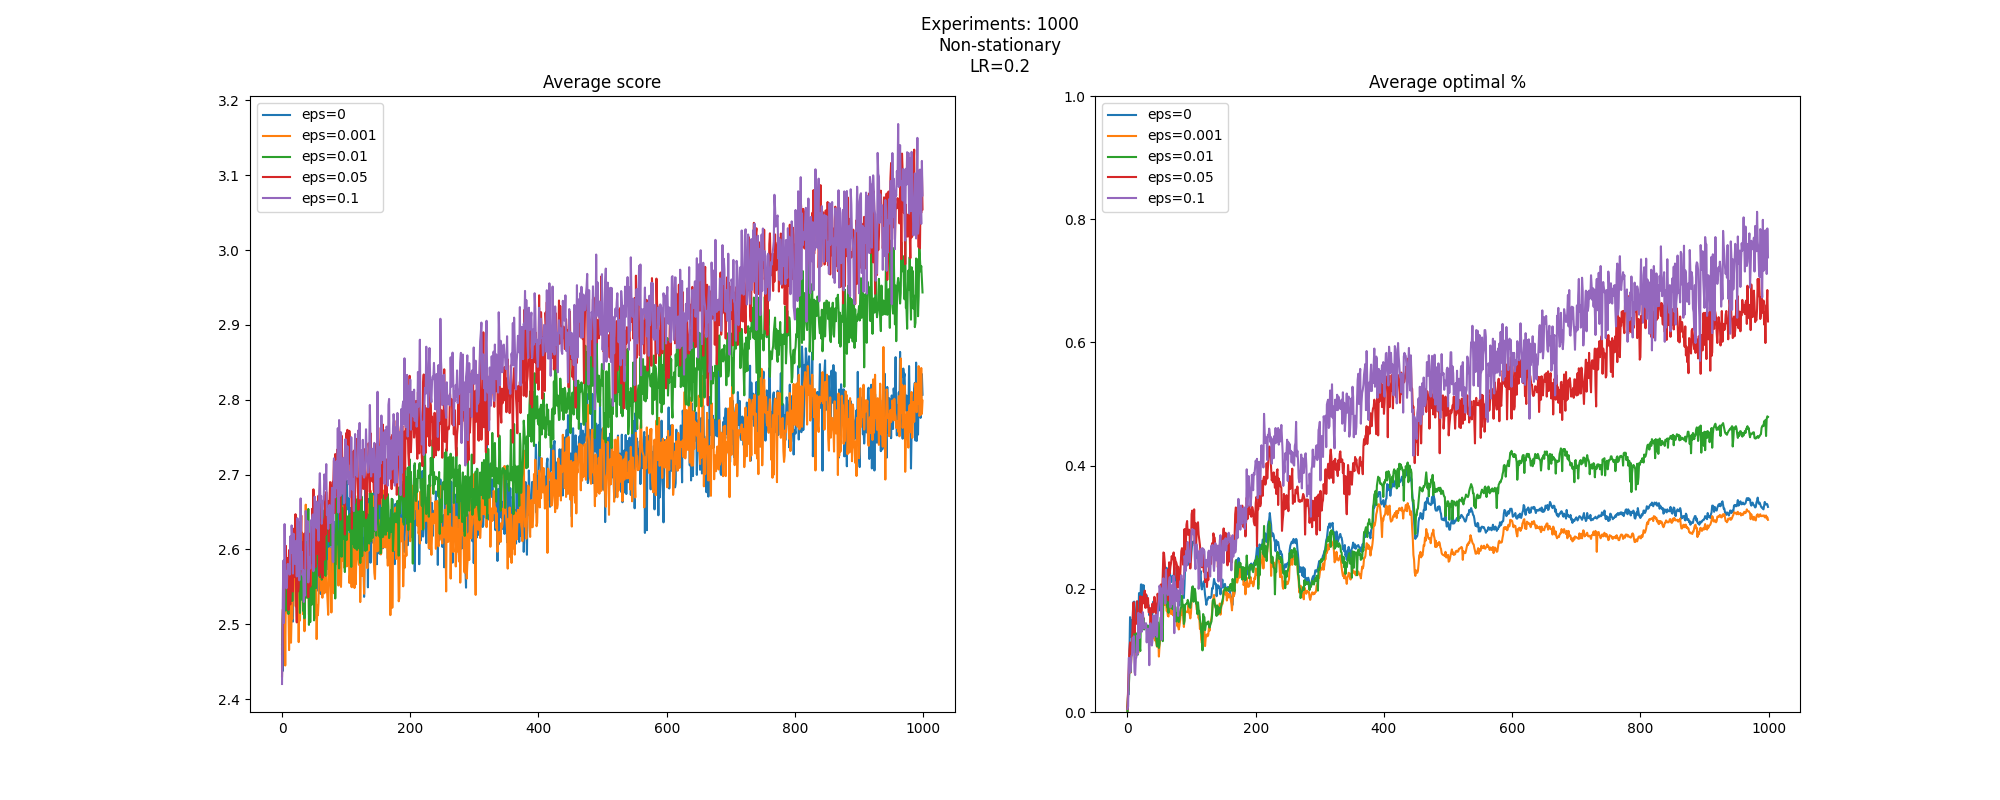
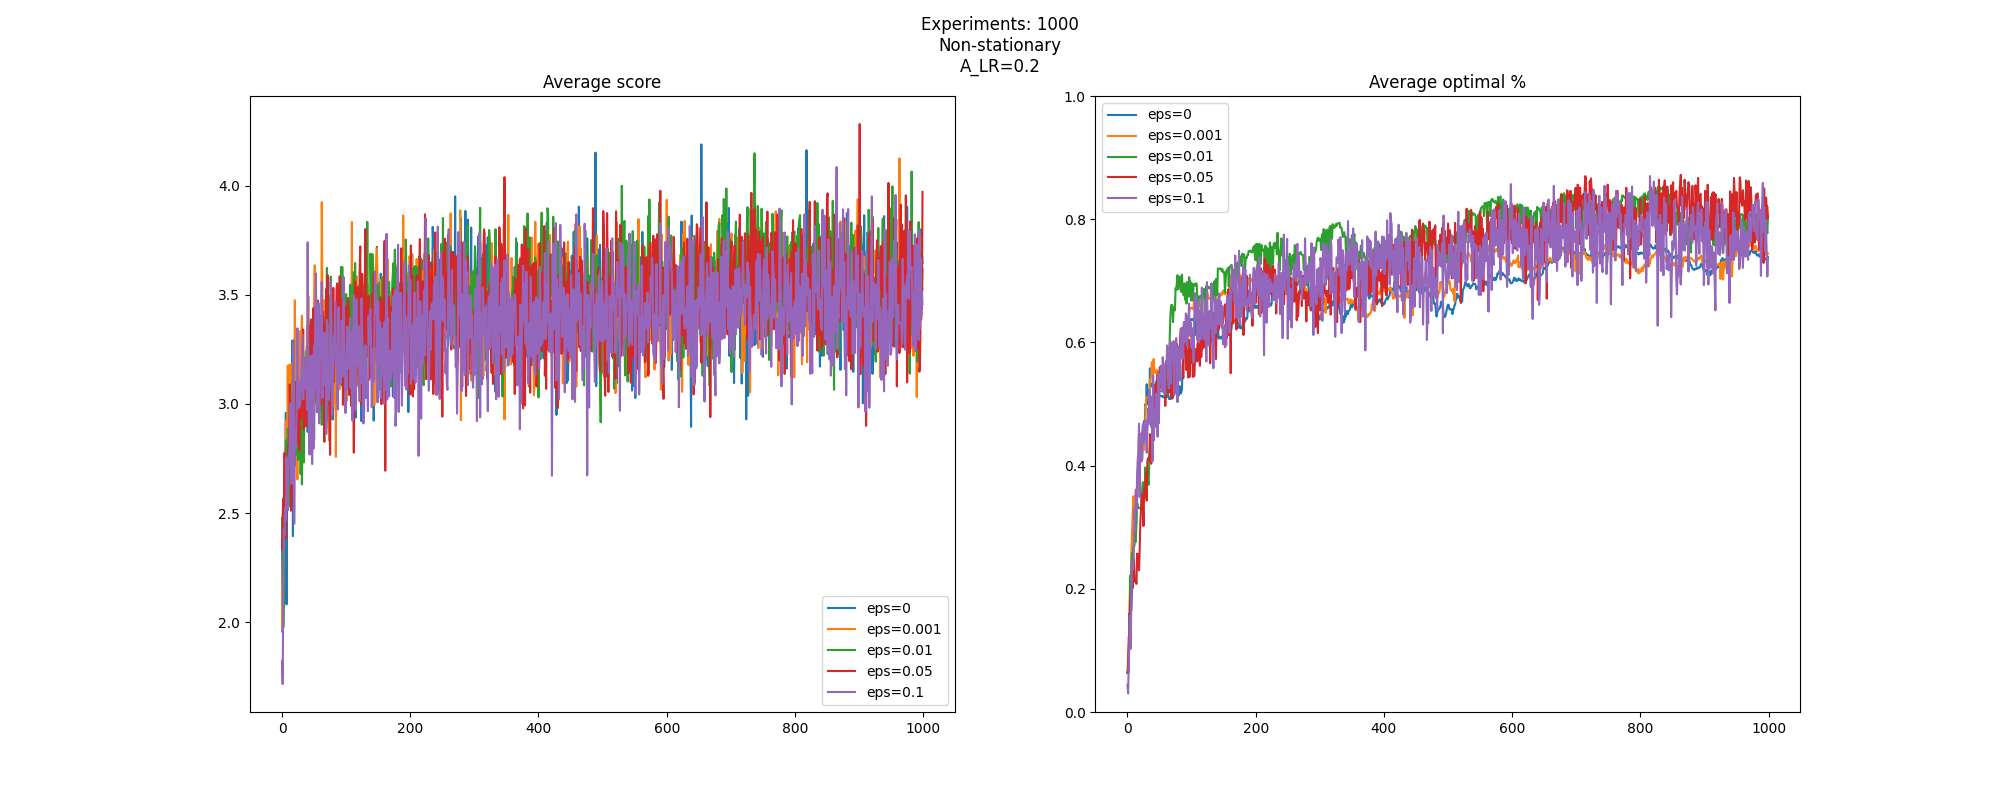
work on ucb agent

diff --git a/Bandits/agents.py b/Bandits/agents.py
@@ -1,6 +1,7 @@
 import numpy as np
 import random
 from typing import Union, Callable
+from math import log, sqrt
 
 
 class AgentBase:
@@ -11,33 +12,7 @@ class AgentBase:
     def update(self, reward, action):
         raise NotImplementedError()
 
-
-class EpsilonAgent:
-    '''
-    Agent that keeps a Q function, which it updates with
-        Q_{n+1} = Q_n + lr(n)(R_n - Q_n)
-
-    The user controls the learning rate lr(n)
-
-    '''
-    def __init__(self, 
-            num_bandits: int, 
-            epsilon: float, 
-            lr: Union[float, Callable[[int], float]] =None
-        ):
-        '''
-        Constructor.
-
-        The learning rate is either a callable that receives n as input, or
-        simply a floating point number for a constant learning rate.
-        '''
-
-        self.num_bandits = num_bandits
-        self.qs = np.zeros(num_bandits) + 2
-        self.ns = np.zeros(num_bandits)
-        self.epsilon = epsilon
-
-        # default is a mean agent
+    def _init_lr(self, lr):
         if lr is None:
             self.lr = lambda n: 1/n
 
@@ -48,6 +23,39 @@ class EpsilonAgent:
             self.lr = lambda n: lr
         else:
             self.lr = lr
+
+
+
+
+class EpsilonAgent(AgentBase):
+    '''
+    Agent that keeps a Q function, which it updates with
+        Q_{n+1} = Q_n + lr(n)(R_n - Q_n)
+
+    The user controls the learning rate lr(n)
+
+    This agent uses epsilon greedy
+    '''
+    def __init__(self, 
+            num_bandits: int, 
+            epsilon: float, 
+            initial_q: float,
+            lr: Union[float, Callable[[int], float]] =None
+        ):
+        '''
+        Constructor.
+
+        The learning rate is either a callable that receives n as input, or
+        simply a floating point number for a constant learning rate.
+        '''
+        super().__init__()
+        self.num_bandits = num_bandits
+        self.qs = np.zeros(num_bandits) + initial_q
+        self.ns = np.zeros(num_bandits)
+        self.epsilon = epsilon
+
+        # default is a mean agent
+        self._init_lr(lr)
 
     def get_action(self):
         """
@@ -66,3 +74,74 @@ class EpsilonAgent:
         """
         self.ns[action] += 1
         self.qs[action] += self.lr(self.ns[action]) * (reward - self.qs[action])
+
+
+
+class UCBAgent(AgentBase):
+    '''
+    Agent that keeps a Q function, which it updates with
+        Q_{n+1} = Q_n + lr(n)(R_n - Q_n)
+
+    The user controls the learning rate lr(n)
+
+    This agent uses the UCB selection method
+    '''
+    def __init__(self, 
+            num_bandits: int, 
+            initial_q: float,
+            c: float,
+            lr: Union[float, Callable[[int], float]] =None,
+        ):
+        '''
+        Constructor.
+
+        The learning rate is either a callable that receives n as input, or
+        simply a floating point number for a constant learning rate.
+
+        c is the hyperparameter for the UCB function
+        '''
+
+        super().__init__()
+
+        self.curr_step = 0
+        self.num_bandits = num_bandits
+        self.qs = np.zeros(num_bandits) + initial_q
+        self.ns = np.zeros(num_bandits)
+
+        if c is None:
+            raise ValueError("constant c cannot be none")
+
+        self.UCBc = c
+
+        self.__init_lr(lr)
+
+    def _UCB(self, action):
+        return self.qs[action] + self.UCBc * sqrt(log(self.curr_step) / self.ns[action])
+
+    def get_action(self):
+        """
+        There is only one state, so just get an action
+        """ 
+
+        max_ucb = -10000
+        best_action = None
+        for action in range(self.num_bandits):
+            if self.ns[action] == 0:
+                return action # untried actions considered optimal
+
+            ucb = self._UCB(action)
+            if ucb > max_ucb:
+                max_ucb = ucb
+                best_action = action
+
+        return best_action
+
+    def update(self, reward, action):
+        """
+        The agent needs to learn, so this must be called every move
+        """
+        self.curr_step += 1
+        self.ns[action] += 1
+        self.qs[action] += self.lr(self.ns[action]) * (reward - self.qs[action])
+
+

diff --git a/Bandits/bandit.py b/Bandits/bandit.py
@@ -1,31 +1,28 @@
 import numpy as np
 
 
-# class Normal:
-#     def __init__(self, mean, std):
-#         self.mean = mean
-#         self.std = std
-
-#     def pull(self):
-#         return (np.random.randn() * self.std) + self.mean
-
-
-
 class Bandits:
-    def __init__(self, num_bandits, means=None, stdevs=None, walks=False):
-        self.walks = walks
-        if means is None:
-            self.means = (np.random.rand(num_bandits)) + 2
-        else:
-            self.means = means
-
-        if stdevs is None:
-            self.stdevs = np.random.rand(num_bandits) * 0.3
+    def __init__(self, 
+        num_bandits:int, 
+        means_mean:float, 
+        mean_std:float, 
+        bandit_std:float,
+        non_stationary:bool=False,
+        rand_walk_std:float=None
+    ):
+        self.non_stationary = non_stationary
+        self.rand_walk_std = rand_walk_std
+        if non_stationary and rand_walk_std is None:
+            raise ValueError(
+                "If non_stationary = True then rand_walk_std must be specified"
+            )
+            
+        self.means = (np.random.randn(num_bandits) * mean_std) + means_mean
+        self.bandit_std = bandit_std
 
     def pull(self, band):
-        mean, stdev = self.means[band], self.stdevs[band]
-        res= (np.random.randn() * stdev) + mean
-        if self.walks:
+        mean = self.means[band]
+        res= (np.random.randn() * self.bandit_std) + mean
+        if self.non_stationary:
             self.means[band] += np.random.randn()*0.01
         return res
-

diff --git a/Bandits/ucb_agent.py b/Bandits/ucb_agent.py
@@ -16,8 +16,8 @@ E_NUM_EXPERIMENTS = 2000
 # Agent specification
 # Lr can be a lambda of n, None for avg, or constant
 A_LR = 0.2
-A_EPSILONS = [0, 0.01, 0.1]
 A_INITIAL_Q = 0
+A_UCB_Cs
 
 # Bandit specification
 B_NUM_BANDITS = 10
